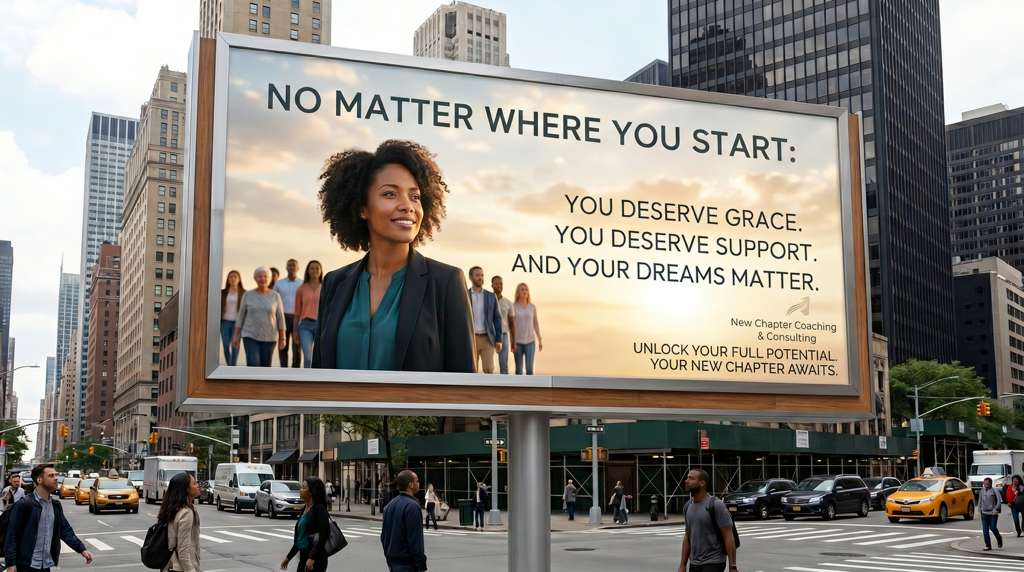
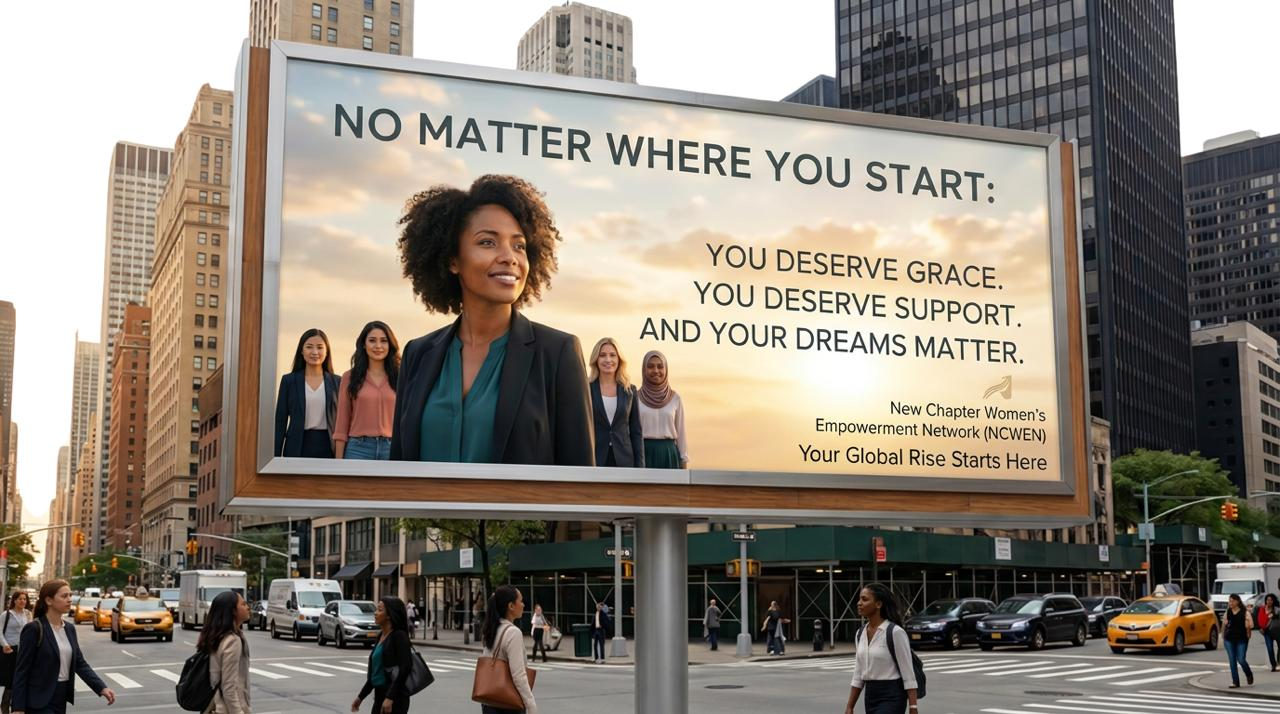
image is updated

diff --git a/src/constants/text.ts b/src/constants/text.ts
@@ -7,7 +7,7 @@ export const LOREM_SHORT =
 
 export const TRANSLATIONS = {
   en: {
-    brand: "NVWENhub",
+    brand: "NCWENhub",
     applyCohort: "Apply for the 6-Week Free Cohort",
     explorePillars: "Explore the 6 Pillars",
     meetCoach: "Meet Your Coach: Dr. Mehtap Akay",
@@ -18,33 +18,39 @@ export const TRANSLATIONS = {
         beforeKoc: "Vetted by ",
         kocText: "Koç Akademi",
         kocUrl: "https://www.kocakademi.com",
-        betweenKocIcf: " and accredited by the International Coaching Federation (",
+        betweenKocIcf:
+          " and accredited by the International Coaching Federation (",
         icfText: "ICF",
         icfUrl: "https://coachingfederation.org",
         afterIcf: ").",
       },
       academic: {
         title: "Academic Foundation",
-        detail: "PhD focusing on multilingual/multicultural immigrant youth, identity layers, and their imagined futures. Former faculty member training future educators at Montclair State University.",
+        detail:
+          "PhD focusing on multilingual/multicultural immigrant youth, identity layers, and their imagined futures. Former faculty member training future educators at Montclair State University.",
       },
       systemic: {
         title: "Systemic Expertise",
-        detail: "Managed immigrant education programs, quality assurance, and grant funding frameworks within the New Jersey State Mandatory Immigrant Office and served as Education Coordinator at the International Rescue Committee (IRC).",
+        detail:
+          "Managed immigrant education programs, quality assurance, and grant funding frameworks within the New Jersey State Mandatory Immigrant Office and served as Education Coordinator at the International Rescue Committee (IRC).",
       },
     },
     publicationsTitle: "Selected Publications & Resources",
     publicationsRich: [
       {
         title: "Article of the Year (Journal of Educational Leadership)",
-        paper: "Excavating trauma in homelands and hostlands: supporting refugees in the US schools",
-        description: "A deep dive into family narratives, hardships, and strategic support systems.",
+        paper:
+          "Excavating trauma in homelands and hostlands: supporting refugees in the US schools",
+        description:
+          "A deep dive into family narratives, hardships, and strategic support systems.",
         linkText: "Read Publication Here",
         linkUrl: "#",
       },
       {
         title: "Research on Educational Equity",
         paper: "Access to equity in accessing educational resources",
-        description: "Focused on empowering immigrant mothers to maximize resource allocation for their children.",
+        description:
+          "Focused on empowering immigrant mothers to maximize resource allocation for their children.",
         linkText: "Read Publication Here",
         linkUrl: "#",
       },
@@ -111,9 +117,10 @@ export const TRANSLATIONS = {
     consentText: LOREM_SHORT,
     submitApplicationBtn: "Submit Application",
     appReceived: "Application received",
-    thanksApplying: "Thanks for applying. Your email client should have opened with your details — just hit send and we'll be in touch soon.",
+    thanksApplying:
+      "Thanks for applying. Your email client should have opened with your details — just hit send and we'll be in touch soon.",
     close: "Close",
-    
+
     // Email subjects
     mailSubject: "New Chapter application",
     mailLabelName: "Name",
@@ -125,17 +132,20 @@ export const TRANSLATIONS = {
 
     // Discovery Call CTA
     discoveryTitle: "Ready to Write Your Next Chapter?",
-    discoveryDesc: "Schedule a free 30-minute discovery call with Dr. Mehtap Akay to discuss your goals, identify transition obstacles, and map out your professional success in the US.",
+    discoveryDesc:
+      "Schedule a free 30-minute discovery call with Dr. Mehtap Akay to discuss your goals, identify transition obstacles, and map out your professional success in the US.",
     discoveryBtn: "Book Free Discovery Call",
     discoveryModalTitle: "Schedule Your Free Discovery Call",
     discoveryPlaceholderDate: "Preferred Date & Time",
-    discoveryPlaceholderMessage: "Briefly describe your goals or current challenges",
+    discoveryPlaceholderMessage:
+      "Briefly describe your goals or current challenges",
     discoverySubmitBtn: "Request Discovery Call",
     discoverySuccessTitle: "Discovery Request Received",
-    discoverySuccessBody: "Thank you for requesting a discovery call. We will get in touch with you shortly to confirm the scheduled time.",
+    discoverySuccessBody:
+      "Thank you for requesting a discovery call. We will get in touch with you shortly to confirm the scheduled time.",
   },
   tr: {
-    brand: "NVWENhub",
+    brand: "NCWENhub",
     applyCohort: "6 Haftalık Ücretsiz Kohorta Başvurun",
     explorePillars: "6 Temel İlkeyi Keşfedin",
     meetCoach: "Koçunuzla Tanışın: Dr. Mehtap Akay",
@@ -153,26 +163,31 @@ export const TRANSLATIONS = {
       },
       academic: {
         title: "Akademik Temel",
-        detail: "Çok dilli/çok kültürlü göçmen gençliği, kimlik katmanları ve hayal edilen gelecekleri üzerine odaklanan doktora (PhD). Montclair State University'de geleceğin eğitimcilerini yetiştiren eski öğretim üyesi.",
+        detail:
+          "Çok dilli/çok kültürlü göçmen gençliği, kimlik katmanları ve hayal edilen gelecekleri üzerine odaklanan doktora (PhD). Montclair State University'de geleceğin eğitimcilerini yetiştiren eski öğretim üyesi.",
       },
       systemic: {
         title: "Sistemik Uzmanlık",
-        detail: "New Jersey Eyaleti Zorunlu Göçmen Ofisi bünyesinde göçmen eğitim programları, kalite güvencesi ve hibe finansman çerçevelerini yönetti ve Uluslararası Kurtarma Komitesi'nde (IRC) Eğitim Koordinatörü olarak görev yaptı.",
+        detail:
+          "New Jersey Eyaleti Zorunlu Göçmen Ofisi bünyesinde göçmen eğitim programları, kalite güvencesi ve hibe finansman çerçevelerini yönetti ve Uluslararası Kurtarma Komitesi'nde (IRC) Eğitim Koordinatörü olarak görev yaptı.",
       },
     },
     publicationsTitle: "Seçilmiş Yayınlar ve Kaynaklar",
     publicationsRich: [
       {
         title: "Yılın Makalesi (Eğitimsel Liderlik Dergisi)",
-        paper: "Excavating trauma in homelands and hostlands: supporting refugees in the US schools",
-        description: "Aile anlatıları, zorluklar ve stratejik destek sistemlerine derin bir bakış.",
+        paper:
+          "Excavating trauma in homelands and hostlands: supporting refugees in the US schools",
+        description:
+          "Aile anlatıları, zorluklar ve stratejik destek sistemlerine derin bir bakış.",
         linkText: "Yayını Buradan Okuyun",
         linkUrl: "#",
       },
       {
         title: "Eğitimde Eşitlik Araştırması",
         paper: "Access to equity in accessing educational resources",
-        description: "Göçmen annelerin çocukları için kaynak tahsisini en üst düzeye çıkarmasını sağlamaya odaklanmıştır.",
+        description:
+          "Göçmen annelerin çocukları için kaynak tahsisini en üst düzeye çıkarmasını sağlamaya odaklanmıştır.",
         linkText: "Yayını Buradan Okuyun",
         linkUrl: "#",
       },
@@ -239,9 +254,10 @@ export const TRANSLATIONS = {
     consentText: LOREM_SHORT,
     submitApplicationBtn: "Başvuruyu Gönder",
     appReceived: "Başvuru alındı",
-    thanksApplying: "Başvurduğunuz için teşekkürler. E-posta istemciniz bilgilerinizle birlikte açılmış olmalıdır — göndere basmanız yeterlidir, yakında sizinle iletişime geçeceğiz.",
+    thanksApplying:
+      "Başvurduğunuz için teşekkürler. E-posta istemciniz bilgilerinizle birlikte açılmış olmalıdır — göndere basmanız yeterlidir, yakında sizinle iletişime geçeceğiz.",
     close: "Kapat",
-    
+
     // Email subjects
     mailSubject: "Yeni Bölüm başvurusu",
     mailLabelName: "İsim",
@@ -253,13 +269,16 @@ export const TRANSLATIONS = {
 
     // Discovery Call CTA
     discoveryTitle: "Yeni Bir Bölüm Yazmaya Hazır mısınız?",
-    discoveryDesc: "Hedeflerinizi konuşmak, geçiş sürecindeki engellerinizi belirlemek ve ABD'deki profesyonel başarınızı planlamak için Dr. Mehtap Akay ile ücretsiz 30 dakikalık bir keşif görüşmesi planlayın.",
+    discoveryDesc:
+      "Hedeflerinizi konuşmak, geçiş sürecindeki engellerinizi belirlemek ve ABD'deki profesyonel başarınızı planlamak için Dr. Mehtap Akay ile ücretsiz 30 dakikalık bir keşif görüşmesi planlayın.",
     discoveryBtn: "Ücretsiz Keşif Görüşmesi Ayarlayın",
     discoveryModalTitle: "Ücretsiz Keşif Görüşmenizi Planlayın",
     discoveryPlaceholderDate: "Tercih Edilen Tarih ve Saat",
-    discoveryPlaceholderMessage: "Hedeflerinizi veya karşılaştığınız zorlukları kısaca açıklayın",
+    discoveryPlaceholderMessage:
+      "Hedeflerinizi veya karşılaştığınız zorlukları kısaca açıklayın",
     discoverySubmitBtn: "Keşif Görüşmesi Talep Et",
     discoverySuccessTitle: "Keşif Görüşmesi Talebi Alındı",
-    discoverySuccessBody: "Keşif görüşmesi talebiniz için teşekkür ederiz. Planlanan saati onaylamak için yakında sizinle iletişime geçeceğiz.",
+    discoverySuccessBody:
+      "Keşif görüşmesi talebiniz için teşekkür ederiz. Planlanan saati onaylamak için yakında sizinle iletişime geçeceğiz.",
   },
 };
